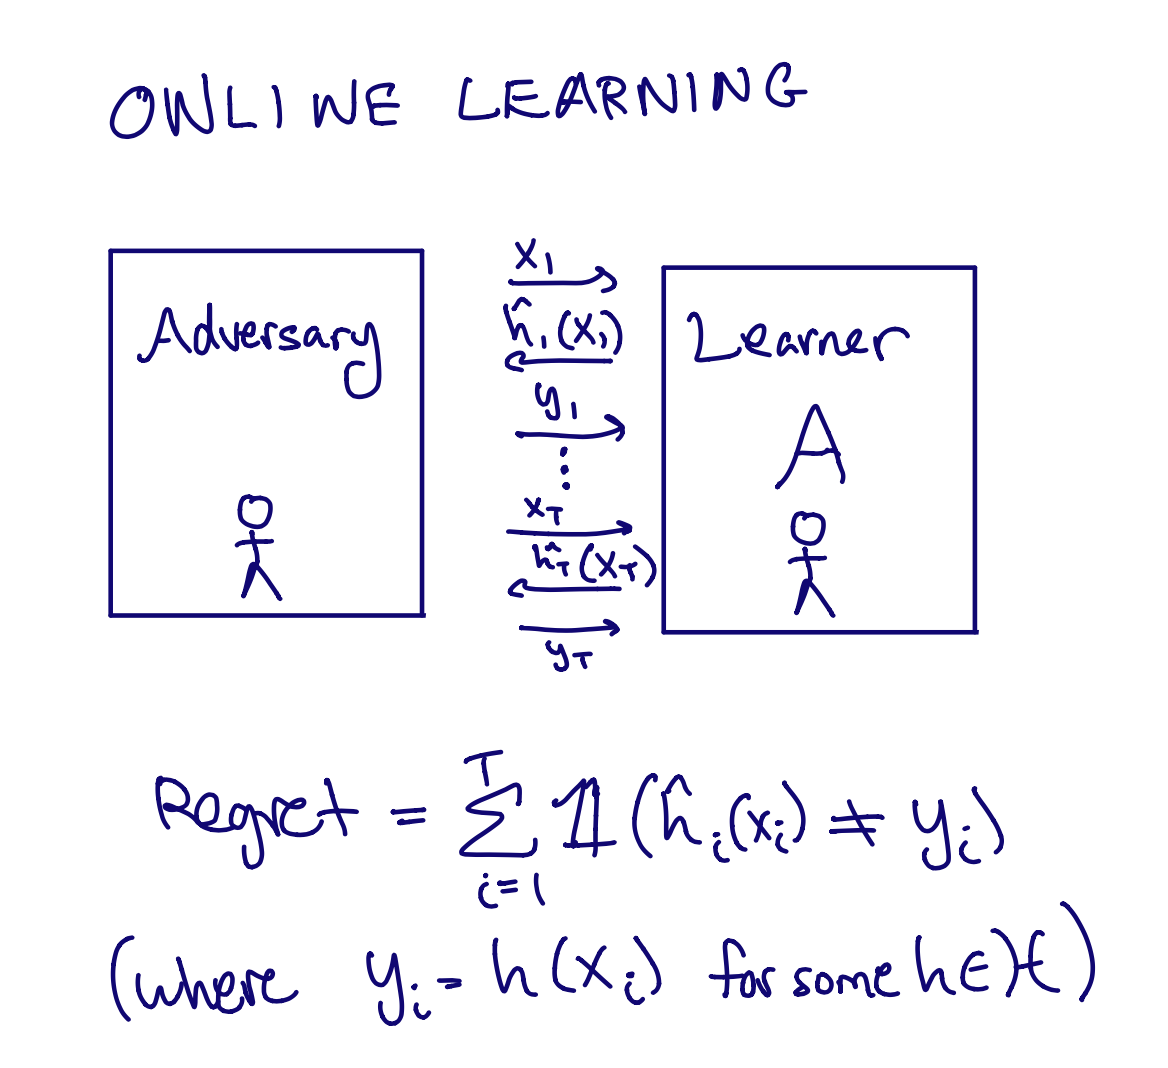
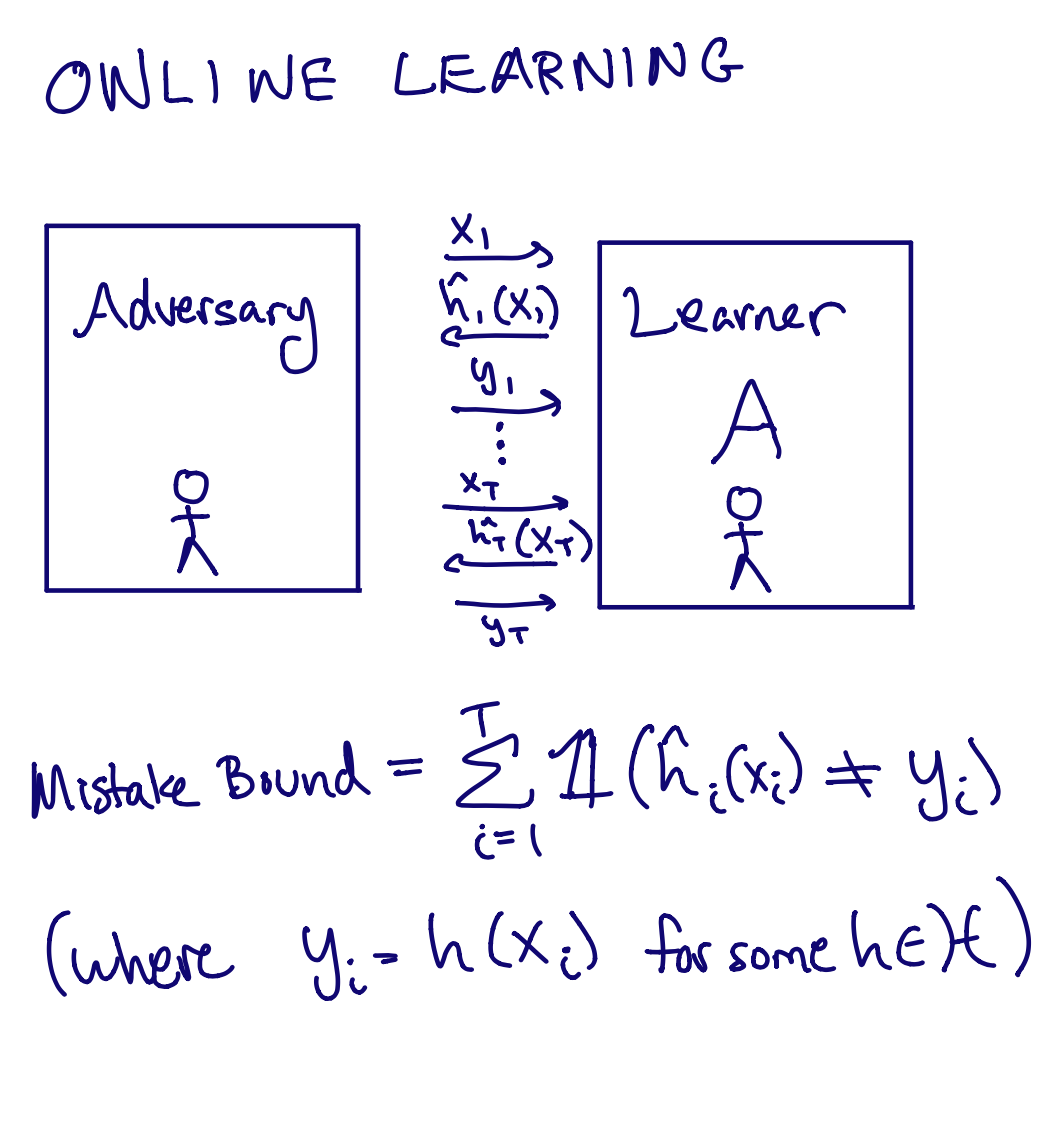
Added acknowledgements and fixed Online Learning image

diff --git a/_posts/2021-04-26-alt-highlights.md b/_posts/2021-04-26-alt-highlights.md
@@ -23,7 +23,7 @@ The tutorial at ALT was given by [Shay Moran](http://www.cs.technion.ac.il/~shay
 His [talk](https://www.youtube.com/watch?v=wk910Aj559A) focused on recent results showing a deep connection between two important areas in learning theory: online learning and differentially private learning. 
 While online learning is a well-established area that has been studied since the invention of the Perceptron algorithm in 1954, differential privacy (DP) - introduced in the seminal work of Dwork, McSherry, Nissim, and Smith in 2006 [**[DMNS06]**](https://journalprivacyconfidentiality.org/index.php/jpc/article/view/405) - has received increasing attention in recent years from both theoretical and applied research communities along with industry and the government. 
 This recent interest in differential privacy comes from a need to protect the privacy rights of the individuals, while still allowing one to derive useful conclusions from the dataset.
-Shay, in a sequence of papers with co-authors Noga Alon, Mark Bun, Roi Livni, and Maryanthe Malliaris, revealed a surprising qualitative connection between these two models of learning: a concept class can be learned in an online fashion if and only if this concept class can be learned by a differentially private algorithm.
+Shay, in a sequence of papers with co-authors Noga Alon, Mark Bun, Roi Livni, and Maryanthe Malliaris, revealed a surprising qualitative connection between these two models of learning: a concept class can be learned in an online fashion if and only if this concept class can be learned in an offline fashion by a differentially private algorithm.
 
 The main objectives of this tutorial were to give an in-depth foray into this recent work, and present an opportunity to young researchers to identify interesting research problems at the intersection of these two fields. This line of work ([**[ALMM19]**](https://arxiv.org/abs/1806.00949), [**[BLM20]**](https://arxiv.org/abs/2003.00563)) - which has been primarily featured in general CS Theory conferences, including recently winning a best paper award at FOCS -  introduced several new techniques which could be of use to the machine learning theory community. The first part of this article focuses on the technical challenges of characterizing DP learnability and the solutions used in Shay’s work, which originate from combinatorics and model theory. In the rest of this article, we highlight some of the exciting open directions Shay sees more broadly in learning theory.
 
@@ -38,7 +38,7 @@ In the realizable setting of PAC learning, which we will focus on here, the lear
 DP PAC learning imposes an additional restriction on PAC learning: the learner must output a function which does not reveal too much about any one sample in the input. Formally, we say an algorithm \\( A \\) is \\( (\varepsilon, \delta) \\)-DP if for any two neighboring inputs \\( X = (X_1, \cdots,  X_i, \cdots, X_n) \\) and \\( X’ = (X_1, \cdots, X_i’,\cdots, X_n) \\) which differ at exactly one sample, for any set \\( S \\), \\( \Pr[A(X) \in S] \leq e^\varepsilon Pr[A(X’) \in S] + \delta \\) . A concept class is *DP PAC learnable* if it can be PAC-learned by a \\( (0.1, o(1/n)) \\)-DP algorithm \\( A \\). That is, changing any one training sample \\( (x_i, y_i) \\) should not affect the distribution over concepts output by \\( A \\) by too much. 
 
 
-Online learning considers a setting where the samples arrive one-by-one, and the learner must make predictions as this process unfolds. <img align="right" src="/images/OnlineLearning.png"  style="width:300px;height:300px;">Formally, in realizable online learning, at each round \\( i = 1,\dots,T \\), the learner is presented with a sample \\( x_i\\). The learner must predict the label, and then the true label \\( y_i \\) is revealed to the learner. The sequence of examples \\( x_i \\) and the labels \\( y_i \\) may be chosen adversarially, but they must be consistent with some function \\( h \in \mathcal{H} \\). The goal of the learner is to minimize the total number of mistakes made by round \\( T \\). If there is a learner such that at \\( T \rightarrow \infty \\), the number of mistakes is \\( o(T) \\), we say that the class of functions \\( \mathcal{H} \\) is *online learnable*. Because of the adversarial nature of the examples, online learning is well known to be much harder than PAC learning, and is possible precisely when the *Littlestone Dimension* of the concept class is finite. Figure 1 below illustrates the definition of the Littlestone Dimension. One important PAC-learnable concept class which is not online learnable is the infinite class of thresholds on \\( \mathbb{R} \\): The set of functions \\(\\{h_t\\}_{t \in \mathbb{R}} \\) where \\( h_t(x) = \textbf{1}(x > t) \\).
+Online learning considers a setting where the samples arrive one-by-one, and the learner must make predictions as this process unfolds. <img align="right" src="/images/OnlineLearning.png"  style="width:300px;height:300px;">Formally, in realizable online learning, at each round \\( i = 1,\dots,T \\), the learner is presented with a sample \\( x_i\\). The learner must predict the label, and then the true label \\( y_i \\) is revealed to the learner. The sequence of examples \\( x_i \\) and the labels \\( y_i \\) may be chosen adversarially, but they must be consistent with some function \\( h \in \mathcal{H} \\). The goal of the learner is to minimize the total number of mistakes made by round \\( T \\), also called the _mistake bound_. If there is a learner such that at \\( T \rightarrow \infty \\), the number of mistakes is \\( o(T) \\), we say that the class of functions \\( \mathcal{H} \\) is *online learnable*. Because of the adversarial nature of the examples, online learning is well known to be much harder than PAC learning, and is possible precisely when the *Littlestone Dimension* of the concept class is finite. Figure 1 below illustrates the definition of the Littlestone Dimension. One important PAC-learnable concept class which is not online learnable is the infinite class of thresholds on \\( \mathbb{R} \\): The set of functions \\(\\{h_t\\}_{t \in \mathbb{R}} \\) where \\( h_t(x) = \textbf{1}(x > t) \\).
 
 ![Figure 1: Littlestone Dimension](/images/LD.png "Figure 1: Littlestone Dimension")
 
@@ -53,7 +53,7 @@ Both pure and proper DP learning though are significantly more stringent than im
 
 > Can an improper DP algorithm learn the infinite class of thresholds over [0, 1]? (*)
 
-This question stands at the center of Shay’s work, which unfolded while Shay was residing at the Institute for Advanced Study (IAS) at Princeton from 2017 to 2019, during which Shay was additionally affiliated with Princeton University and Google Brain. At the time, Shay was working on understanding the expressivity of limited mutual-information algorithms, that is, algorithms which expose little information about the total input. “If we were to have directly worked on this problem, I believe we wouldn’t have solved it,” Shay says. Instead, they came from the angle of mutual-information, a concept qualitatively similar to DP, but armed with a rich toolkit from 70 years of information theory. One of Shay’s prior works with Raef Bassily, Ido Nachum, Jonathan Shafer, and Amir Yehudayof established lower bounds on the mutual information of any proper algorithm that learns thresholds [**[BMNSY18]**][5], though this didn’t yet address the challenge presented by improper learners.
+This question stands at the center of Shay’s work, which unfolded while Shay was residing at the Institute for Advanced Study (IAS) at Princeton from 2017 to 2019.[^2] At the time, Shay was working on understanding the expressivity of limited mutual-information algorithms, that is, algorithms which expose little information about the total input. “If we were to have directly worked on this problem, I believe we wouldn’t have solved it,” Shay says. Instead, they came from the angle of mutual-information, a concept qualitatively similar to DP, but armed with a rich toolkit from 70 years of information theory. One of Shay’s prior works with Raef Bassily, Ido Nachum, Jonathan Shafer, and Amir Yehudayof established lower bounds on the mutual information of any proper algorithm that learns thresholds [**[BMNSY18]**][5], though this didn’t yet address the challenge presented by improper learners.
 
 
 Unlike most lower bounds in theoretical computer science, proving hardness of learning the infinite class of thresholds on the line against an improper DP algorithm would require coming up with algorithm-specific distributions over samples. That is, instead of showing that one distribution over samples would be impossible to learn for all algorithms --- in the way the a uniform distribution over the set in \\(\mathcal{X}\\) shattered by the concept class is hard to PAC-learn for any algorithm --- they would have to come up with a distribution on \\(\mathcal{X}\\) specific to each candidate learning algorithm. Indeed, if the distribution was known to the learner, it was possible to devise a DP algorithm using the exponential mechanism (again!) which could learn any PAC-learnable concept class. Similar to the case of finite concept classes, here we can apply the exponential mechanism to some finite set of representative functions forming a cover of the concept class.
@@ -77,7 +77,7 @@ The second part of the argument shows that being \\( k \\)-proper-normal on a la
 
 ![Figure 3: A Hard Distribution](/images/DP_Construction.png "Figure 2: Ramsey's Theorem")
 
-**Figure 3**: By DP, the behaviour of \\(A\\) on \\(S^* \\) must be similar to its behaviour on \\(S_i\\) for \\(i = 1 \ldots \Omega(n).\\) Namely, since \\(S^* \\) and \\( S_i \\) differ by at most two points, \\( A(S^*) \\) must output a threshold in \\( I_i \\) with probability \\( p \geq (q - 2\delta)e^{-(2\varepsilon)} \\) for each \\( i \\), where \\( q \\) is a lower bound on the probability that \\( A(S_i) \\) outputs a threshold in \\( I_i \\). Because \\( A \\) is \\(k\\)-proper-normal, \\( q > c/n \\), so \\( p = \Omega(1/n) \\). This yields a contradiction for \\( m >1/p \\) because \\( A \\) cannot simultaneously output a threshold in two of the intervals \\( I_i \\). 
+**Figure 3:** A distribution showing the conflict between \\(A \\) being DP and \\(k\\)-proper normal. By DP, the behaviour of \\(A\\) on \\(S^* \\) must be similar to its behaviour on \\(S_i\\) for \\(i = 1 \ldots \Omega(n).\\) Namely, since \\(S^* \\) and \\( S_i \\) differ by at most two points, \\( A(S^*) \\) must output a threshold in \\( I_i \\) with probability \\( p \geq (q - 2\delta)e^{-(2\varepsilon)} \\) for each \\( i \\), where \\( q \\) is a lower bound on the probability that \\( A(S_i) \\) outputs a threshold in \\( I_i \\). Because \\( A \\) is \\(k\\)-proper-normal, \\( q > c/n \\), so \\( p = \Omega(1/n) \\). This yields a contradiction for \\( m >1/p \\) because \\( A \\) cannot simultaneously output a threshold in two of the intervals \\( I_i \\). 
 
 For the case of improper algorithms, Shay and his coauthors considered an alternative notion of normality, which we will term *improper-normal*. Recall that in this case the output \\( A(S) \\) of the learner on a sample \\( S \\) is *any function* from \\( [0, 1] \\) to \\( \\{0, 1\\} \\) and not necessarly a threshold. We’ll say that \\( A \\) is \\(k\\)-improper-normal on a set \\( \mathcal{X}’ \\) if for any balanced sample \\( S = [(x_1, 0), \ldots, (x_{n/2}, 0), (x_{n/2 +1}, 1), \ldots,  (x_n, 1)] \\) of \\( n \\) points in \\( \mathcal{X}’, \Pr[A(S)(w) = 1] - \Pr[A(S)(v) = 1] > \Omega(1/n) \\) for any \\( w \in (x_{k - 1}, x_k) \\) and \\( v \in  (x_k, x_{k + 1}) \\) in \\( \mathcal{X}’ \setminus \\{x_1, … x_n\\} \\). To PAC learn, A must be \\(k\\)-improper-normal for some \\(k\\) on any set of \\(n + 1\\) points. Applying the same Ramsey Theorem to a graph with colored hyperedges of size \\(n + 1\\) shows that there must exist an arbitrarily large set \\( \mathcal{X}’ \\) on which \\( A \\) is \\(k\\)-improper normal for some \\( k \\). A similar (but more nuanced) argument as before shows that a learner cannot be simultaneously private and \\(k\\)-improper-normal on some distribution over \\( \mathcal{X}’ \\).
 
@@ -99,6 +99,11 @@ From a broader perspective, Shay believes that discovering clean, beautiful math
 
 And how should one go about identifying such better mathematical models? “Pick the simplest problem that you don’t know how to solve and see where that leads you”, says Shay. One should begin by trying to understand the deficiencies of existing learning models, by identifying simple examples which go beyond these existing models. For example, Livni and Moran [**[LM20]**][LM] exhibit the limitations of PAC-Bayes framework through a simple 1D linear classification problem. Fixing such limitations can often lead one to discover better learning models.
 
+---
+Thanks to Gautam Kamath, Shay Moran, and Keziah Naggita for helpful conversations and comments.
+---
+
+
 [A]: https://arxiv.org/abs/1806.00949
 [B]: https://arxiv.org/abs/2003.00563
 [4]: https://arxiv.org/abs/0803.0924
@@ -111,3 +116,4 @@ And how should one go about identifying such better mathematical models? “Pick
 [LM]: https://arxiv.org/abs/2006.13508
 
 [^1]: For a more complete background on the progress in DP PAC learning, we refer the reader to the excellent survey blog post [here](https://differentialprivacy.org/private-pac/).
+[^2] At the times, Shay was additionally affiliated with Princeton University and Google Brain.
